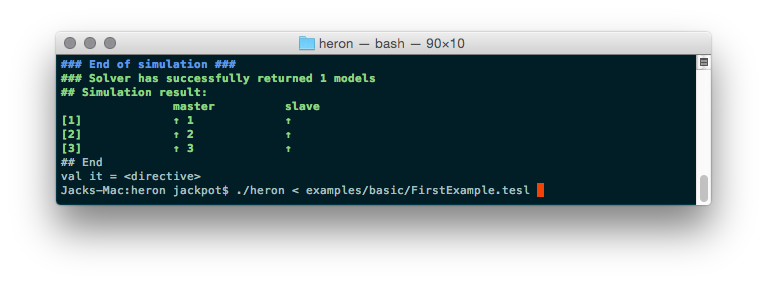
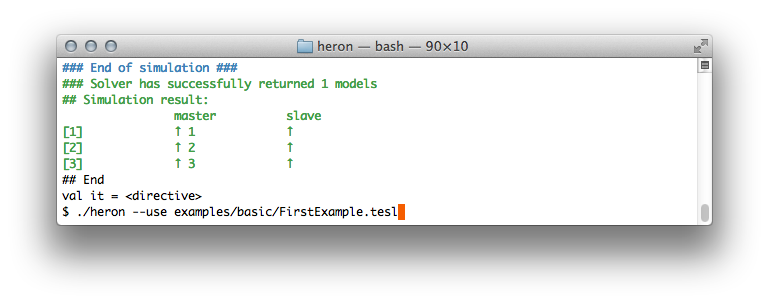
Updated README

diff --git a/README.md b/README.md
@@ -1,9 +1,7 @@
-Heron
+Heron [![Build Status](https://travis-ci.org/heron-solver/heron.svg?branch=master)](https://travis-ci.org/EmptyStackExn/heron)
 ===================
 
-> Simulation Solver for Timed Causality Models expressed in TESL
-
-[![Build Status](https://travis-ci.org/heron-solver/heron.svg?branch=master)](https://travis-ci.org/EmptyStackExn/heron)
+![Running on FirstExample.tesl](doc/FirstExample.png "Running on FirstExample.tesl")
 
 **Heron** is a solver for the [Tagged Events Specification Language (TESL)](http://wwwdi.supelec.fr/software/TESL/), a declarative language for specifying synchronization of discrete events for simulation [1]. This prototype provides:
 
@@ -15,12 +13,10 @@ Heron
 Getting started
 -------------------
 ### Binary distribution
-The easiest way to start with Heron is to get the [latest binary release](https://github.com/EmptyStackExn/heron/releases/latest) (Linux and macOS systems). Several examples are provided in [`examples`](examples). To solve one of them, you can simply type
+The easiest way to start with Heron is to get the [latest binary release](https://github.com/EmptyStackExn/heron/releases/latest) (Linux and macOS systems). To solve an example, you can simply type
 ```bash
 ./heron --use examples/basic/FirstExample.tesl
 ```
-
-![Running on FirstExample.tesl](doc/FirstExample.png "Running on FirstExample.tesl")
 
 ### From sources
 ```bash
